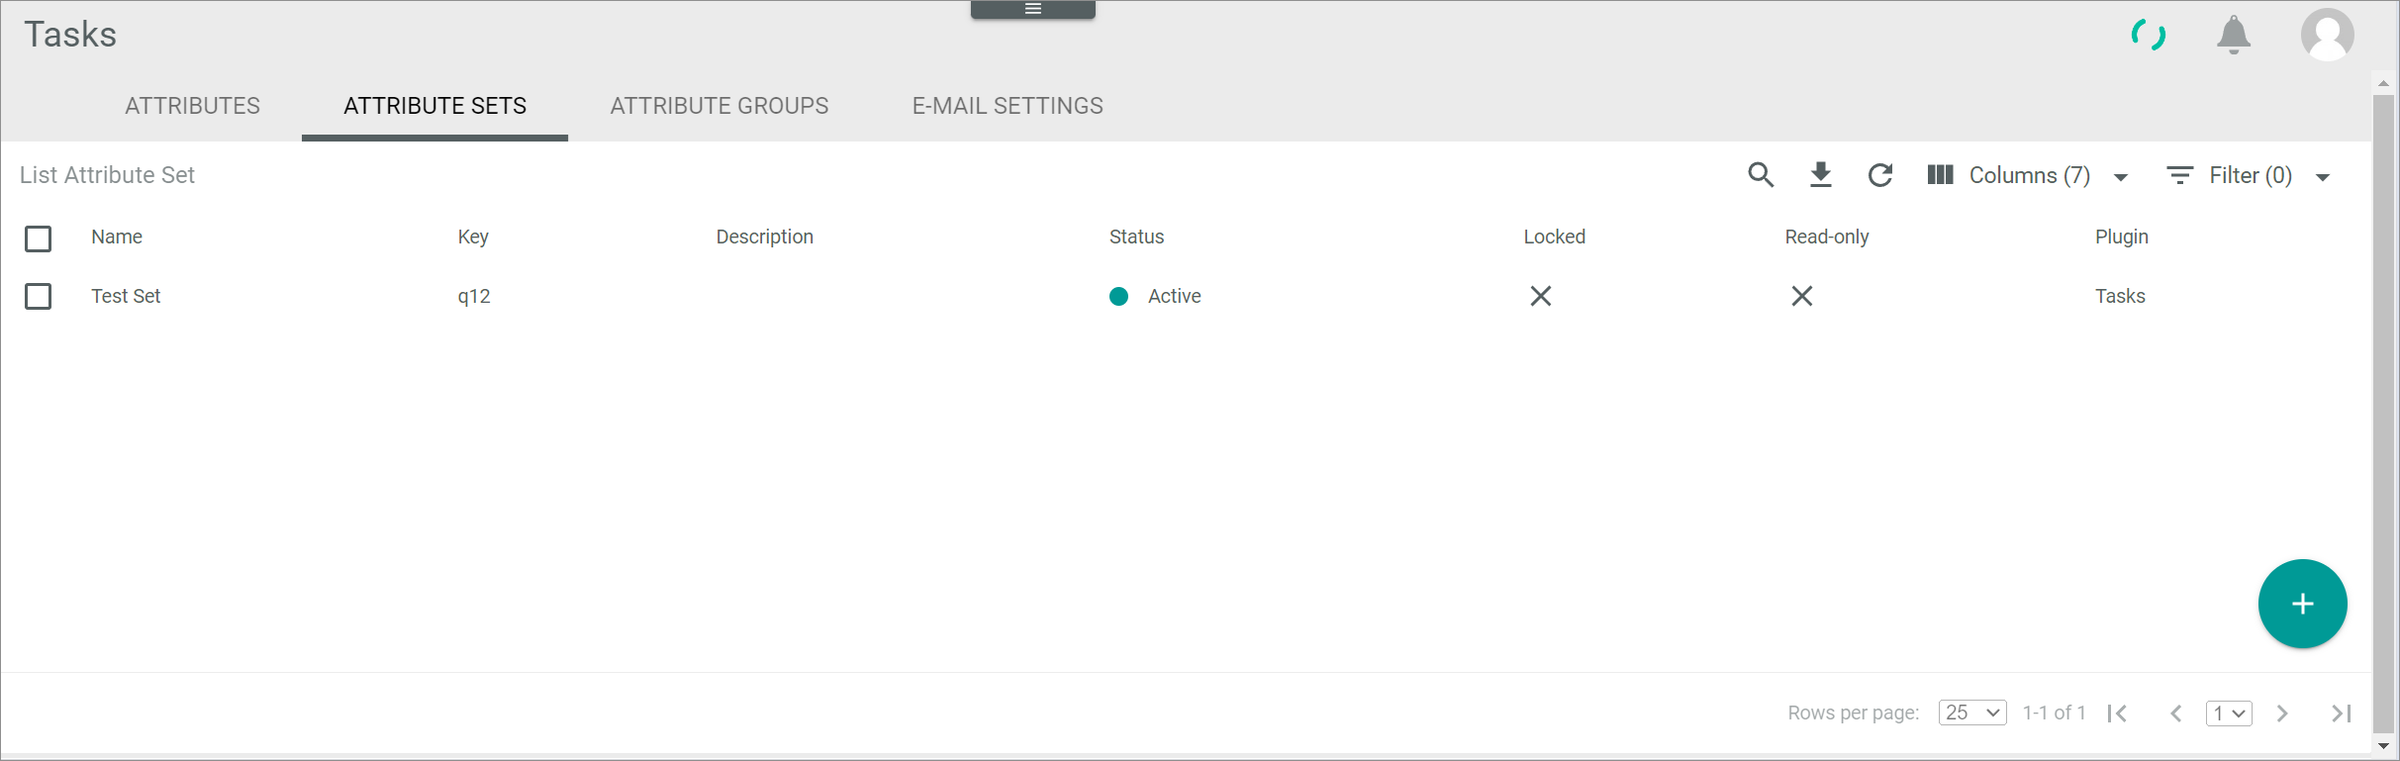
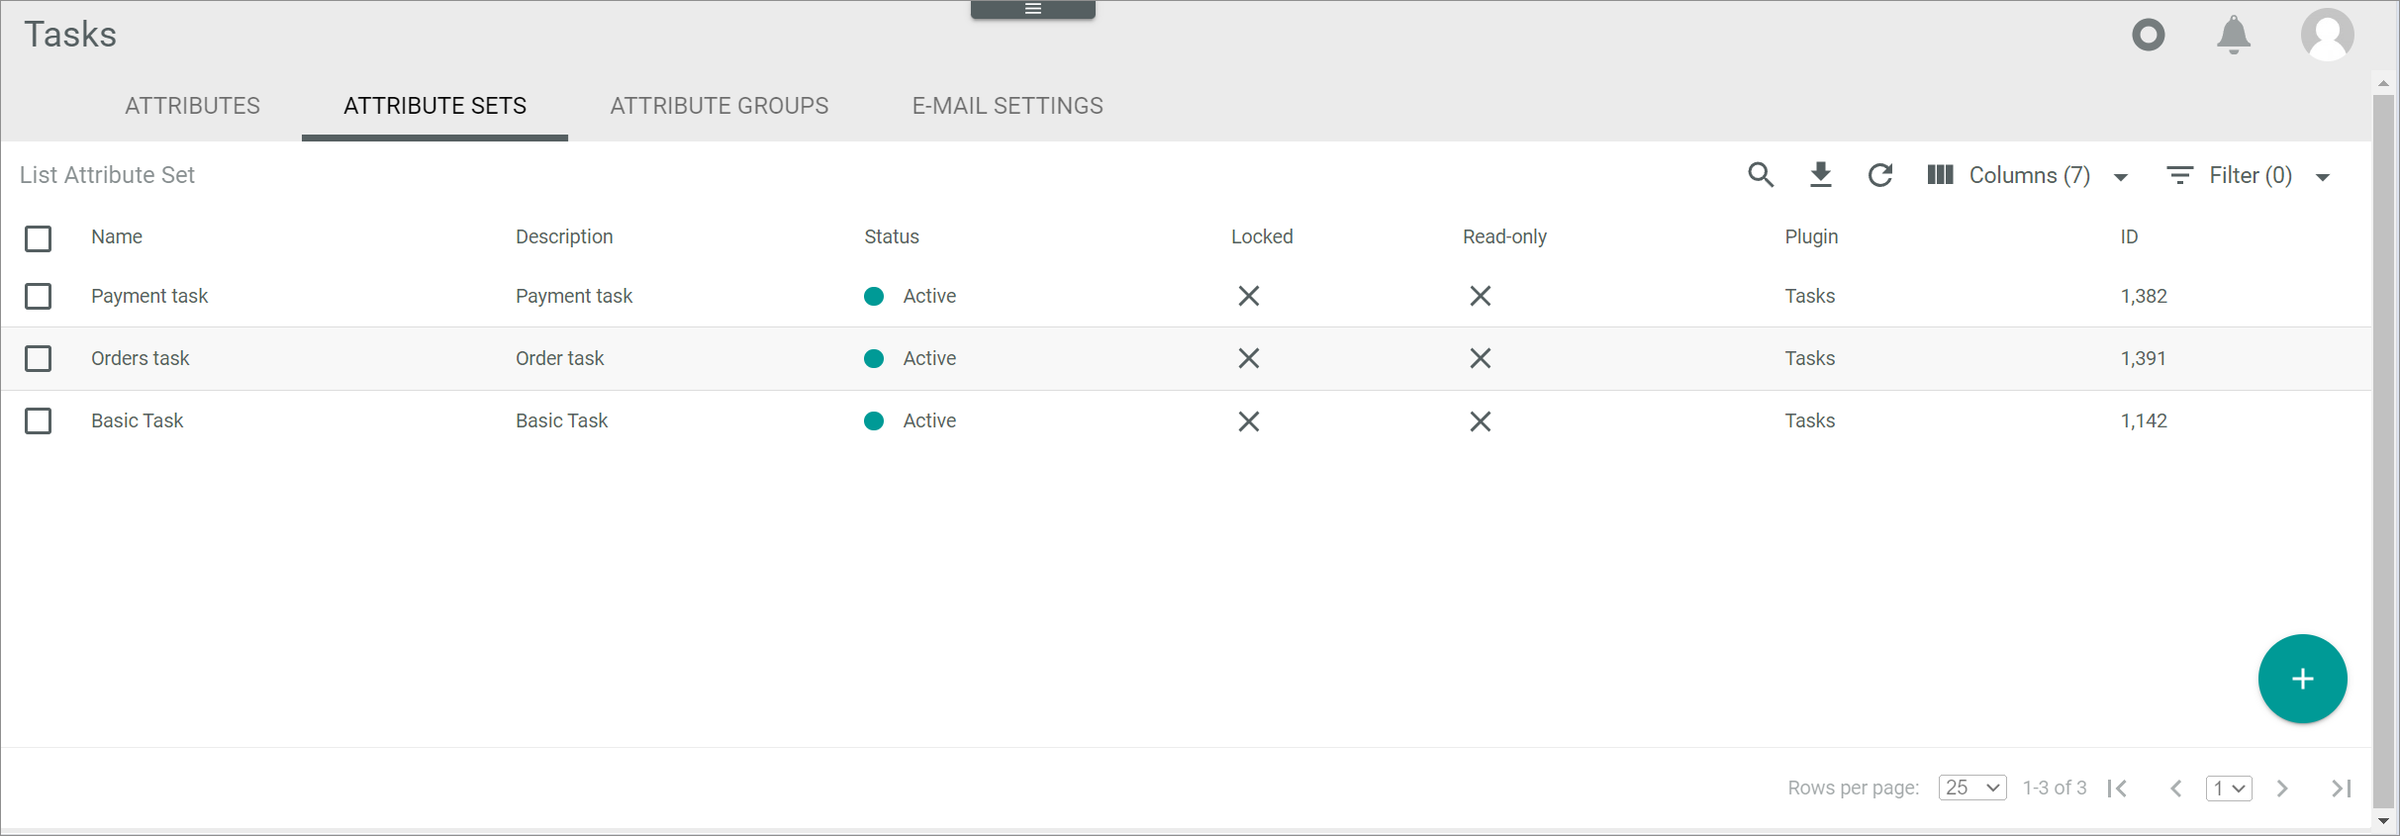
ACD-1101
Docu review corrections

diff --git a/Tasks/Operation/01_ManageEvents.md b/Tasks/Operation/01_ManageEvents.md
@@ -7,7 +7,11 @@ An event is an occurrence that originates a task. For example, when inconsistenc
 
 You can create events manually in the *Tasks* module. However, most events are automatically created by the system when installing a plugin or module, such as the *Actindo Workflow Process Execution Failed*. 
 
-When the *Process Orchestration* (also known as *Workflows*) module is installed, the *Actindo Workflow Process Execution Failed* event is automatically created in the *Tasks* module. This event creates a task as soon as an error occurs in a process action. The workflow process in the *Process Orchestration* module is then paused until the specified task is performed manually by the responsible user. For detailed information about the workflow processes, see the [Process Orchestration](../../ActindoWorkFlow/Overview/01_General.md) documentation. 
+When the *Process Orchestration* module is installed, the *Actindo Workflow Process Execution Failed* event is automatically created in the *Tasks* module. This event creates a task as soon as an error occurs in a process action. The workflow process in the *Process Orchestration* module is then paused until the specified task is performed manually by the responsible user. For detailed information about the workflow processes, see the [Process Orchestration](../../ActindoWorkFlow/Overview/01_General.md) documentation. 
+
+[comment]: <> (Ist es nicht eine Voraussetzung, dass ich einen zuvor in der Workflow Config einen "Task event" in der Transition angebe, damit das passiert?)
+
+[comment]: <> (Link anpassen, wenn veröffentlicht: For detailed information, see Track the workflow process in the Process Orchestration documentation. ActindoWorkFlow/Operation/09_TrackWorkflowProcess.md)
 
 You can create an event manually, edit an existing event, and delete an event that is no longer needed.
 
@@ -15,7 +19,7 @@ You can create an event manually, edit an existing event, and delete an event th
 
 ## Create an event
 
-You can create an event to define a scenario where a task must be created.
+You can create an event to define a scenario that requires a user to perform a task.
 
 #### Prerequisites
 
@@ -43,17 +47,17 @@ No prerequisites to fulfill.
 
 4. Click the *Attribute set for tasks* drop-down list and select the desired option. All available attribute sets for tasks are displayed in the list.
 
-5. As you are creating the event manually, the *Plugin* drop-down list is locked.
+    > [Info] As you are creating the event manually, the *Plugin* drop-down list is locked. After saving the event, the value **Manually created** is displayed in the *Plugin* column.
 
-    > [Info] After saving the event, the value **Manually created** is displayed in the *Plugin* column.
+5. If desired, click the *Responsible user* drop-down list and select the user to whom you want to assign the event, and the related tasks, by default. All users that are registered in the current instance are displayed in the list. 
 
-6. Click the *Responsible user* drop-down list and select the user to whom you want to assign the event, and the related tasks, by default. All users that are registered in the system instance are displayed in the list. 
-
-7. Click the *Responsible user group* drop-down list and select the user group to which you want to assign the event, and the related tasks, by default. All user groups that are registered in the system instance are displayed in the list.
+6. Alternatively, click the *Responsible user group* drop-down list and select the user group to which you want to assign the event, and the related tasks, by default. All user groups that are registered in the current instance are displayed in the list.
 
     > [Info] If necessary, you can further assign an individual task to a specific user in the *Tasks* menu entry, see [Assign a task](./02_ManageTasks.md#assign-a-task).
 
-8. Click the [SAVE] button.  
+[comment]: <> (Muss man oder kann man ein responsible user und responsible user group hier auswählen? Was passiert, wenn die Task keinem User/keiner Gruppe zugewiesen ist? Keine Email-Benachrichtigung geschickt? Oder wohin wird die Email geschickt, wenn eingestellt?)
+
+7. Click the [SAVE] button.  
     A confirmation message is displayed. The event has been saved. The *Create event* view is closed.  
 
 

diff --git a/Tasks/Operation/02_ManageTasks.md b/Tasks/Operation/02_ManageTasks.md
@@ -5,9 +5,11 @@
 
 # Manage the tasks
 
-A task is an activity that needs to be completed by a responsible user. Tasks are defined and configured in the *Process Orchestration* (*Workflows*) module. 
+A task is an activity that needs to be completed by a responsible user. Tasks are defined and configured in the *Process Orchestration* module. 
 
 [comment]: <> (Evtl. Link auf Workflows)
+
+Most tasks are created automatically by modules, such as *Omni-Channel* or *Process Orchestration*, for example, when a process fails. Tasks can also be added during the handling of processes in the *Process Orchestration* module, for instance, for manual clearance of suspicious orders or approving refunds. Tasks are related to an event, which can be assigned by default to a user as well as a user group. Many events are created automatically when installing a module or plugin, but you can also define your own events in the *Tasks* module. For detailed information, see [Manage the events](./01_ManageEvents.md).
 
 The *Tasks* menu entry in the *Tasks* module displays all tasks created in your system. You can assign a task to a specific user, filter tasks by different criteria, mark a task as done, or reopen a closed task.
 
@@ -19,13 +21,13 @@ Every task is related to an event. This means that when an event occurs, a task 
 
 You can define the user and/or user group who, by default, are responsible for an event, and all related tasks, in the *Events* menu entry, see [Manage the events](./01_ManageEvents.md). However, you can further assign an individual or several tasks to a specific user in the *Tasks* menu entry.
 
-You can assign tasks to yourself or to other users registered in your system instance.
+You can assign tasks to yourself or to other users registered in your current instance.
 
 [comment]: <> (instance in Glossar aufnehmen und definieren? Oder anders nennen?)
 
 ### Assign a task to yourself
 
-You can assign one or several tasks at once to yourself.
+You can assign yourself one or more tasks at once.
 
 #### Prerequisites
 
@@ -46,7 +48,7 @@ A task has been created.
 
 ### Assign a task to other user
 
-You can assign one or several tasks at once to other users registered in your system instance.
+You can assign one or several tasks at once to other users registered in your current instance.
 
 #### Prerequisites
 
@@ -62,7 +64,7 @@ A task has been created.
     The editing toolbar is displayed.
 
 2. Click the *Unassigned* drop-down list.  
-    All users registered in the system instance are displayed in the list.
+    All users registered in the current instance are displayed in the list.
 
 3. Select the user to whom you want to assign the task.
     
@@ -120,7 +122,7 @@ A task has been assigned to you, see [Assign a task](#assign-a-task).
     The editing toolbar is displayed.
 
 2. Click the [MARK AS DONE] button.  
-    The selected task is marked as done and therefore closed. The status icon in the *Status* column changes from ![Cross](../../Assets/Icons/Cross05.png "[Cross]") to ![Check](../../Assets/Icons/Check02.png "[Check]"). The date on *Done date* column is updated.
+    The selected task is marked as done and therefore closed. The status icon in the *Status* column changes from ![Cross](../../Assets/Icons/Cross05.png "[Cross]") to ![Check](../../Assets/Icons/Check02.png "[Check]"). The *Done date* column is updated.
 
 
 
@@ -142,4 +144,4 @@ As task has been marked as done, see [Mark a task as done](#mark-a-task-as-done)
     The editing toolbar is displayed.
 
 2. Click the [REOPEN] button.  
-    The selected task is reopened. The status icon in the *Status* column changes from ![Check](../../Assets/Icons/Check02.png "[Check]") to ![Cross](../../Assets/Icons/Cross05.png "[Cross]"). The date on *Done date* column is removed.
+    The selected task is reopened. The status icon in the *Status* column changes from ![Check](../../Assets/Icons/Check02.png "[Check]") to ![Cross](../../Assets/Icons/Cross05.png "[Cross]"). The date in the *Done date* column is removed.

diff --git a/Tasks/UserInterface/01a_List.md b/Tasks/UserInterface/01a_List.md
@@ -10,7 +10,7 @@
 
 **Tasks**
 
-You can filter the tasks displayed by different criteria using the *Assignees*, *Events*, and *Status* drop-down lists. You can also combine the filters to narrow down the listed tasks. Depending on the settings, the displayed columns may vary. All fields are read-only.
+The list displays an overview of all tasks created in the current instance. You can filter the tasks displayed by different criteria using the *Assignees*, *Events*, and *Status* drop-down lists. You can also combine the filters to narrow down the listed tasks. Depending on the settings, the displayed columns may vary. All fields are read-only.
 
 - *Assignees*  
     Click the drop-down list to filter the list of tasks by assignee. The following options are available:  
@@ -40,16 +40,16 @@ You can filter the tasks displayed by different criteria using the *Assignees*, 
 The following functions are available for the editing toolbar: 
 
 - [MARK DONE]  
-    Click this button to mark a task as done. This button is displayed if the checkbox of at least one open task, with status ![Cross](../../Assets/Icons/Cross05.png "[Cross]"), is selected.
+    Click this button to mark a task as done. This button is displayed if the checkbox of at least one open task with an ![Cross](../../Assets/Icons/Cross05.png "[Cross] ") (pending) status is selected.
 
 - [REOPEN]  
-    Click this button to reopen a task. This button is displayed if the checkbox of at least one closed task, with status ![Check](../../Assets/Icons/Check02.png "[Check]"), is selected.
+    Click this button to reopen a task. This button is displayed if the checkbox of at least one closed task with a ![Check](../../Assets/Icons/Check02.png "[Check]") (done) status is selected.
 
 - [ASSIGN TO ME]  
     Click this button to assign a task to yourself. This button is displayed if the checkbox of at least one task is selected.
 
 - *Unassigned*  
-    Click the drop-down list to select a user to assign him/her a task. This button is displayed if the checkbox of at least one task is selected. The list displays all users that are registered in your system instance. 
+    Click the drop-down list to select a user to assign him/her a task. This button is displayed if the checkbox of at least one task is selected. The list displays all users that are registered in your current instance. 
 
     > [Info] You can assign an unassigned task as well as reassign a task that is currently assigned to another user.
 
@@ -91,7 +91,7 @@ The following fields are available in this view:
     User to which the task is assigned.
 
 - *Group*  
-    User group to which the event, and all related tasks, is assigned.
+    User group to which the event and all related tasks are assigned.
 
 - *ID*  
     Task identification number. The ID number is automatically assigned by the system.

diff --git a/Tasks/Integration/01_ManageAttributesTasks.md b/Tasks/Integration/01_ManageAttributesTasks.md
@@ -3,13 +3,23 @@
 
 # Manage an attribute for tasks
 
-A task is an entity type. Like all entity types, a task is defined through a series of attributes. In the *Tasks* module, you can create, edit, deactivate, and delete attributes that are specific to your tasks. 
+A task is an entity type. Like all entity types, a task is defined through a series of attributes. 
 
-The *ATTRIBUTES* tab in the *Tasks* module equals the *ATTRIBUTES* tab contained in the *DataHub* module. In the *Tasks* module, however, only the tasks-relevant attributes are displayed. 
+Tasks contain by default a number of fields, such as *Title*, *Description*, *Event*, and *Assignee*, to specify how the task is called, what it entails, in which scenario it needs to be performed, and who is person responsible for it. These fields are internally predefined.
 
-For detailed information on how to create, edit, deactivate, and delete attributes, see [Manage an attribute](../../DataHub/Integration/01_ManageAttributes.md) in the *DataHub* documentation.
+[comment]: <> (Sebi: Ist das fachlich korrekt? Gerne verbessern bzw. ergänzen.)
 
-[comment]: <> (so allgemein, oder unter dem jeweiligen Procedure?)
+You can create any number of attributes you need to add fields to your tasks and specify further values, such as the ones displayed in the example. 
+
+![Tasks attributes](../../Assets/Screenshots/Tasks/Settings/Attributes/AttributesTasks.png "[Tasks attributes]")
+
+[comment]: <> (Sebi: Sinnvolle Beispiele? Bitte auch Beispiele bei Attribute set und attribute group prüfen bzw. verbessern.)
+
+The *ATTRIBUTES* tab in the *Tasks* module equals the *ATTRIBUTES* tab contained in the *DataHub* module. In the *Tasks* module, however, you can only manage tasks-related attributes, as only the task-relevant attributes are displayed. 
+
+For detailed information on how to manage an attribute, see [Manage an attribute](../../DataHub/Integration/01_ManageAttributes.md) in the *DataHub* documentation.
+
+
 
 
 

diff --git a/Tasks/Integration/02_ManageAttributeSetsTasks.md b/Tasks/Integration/02_ManageAttributeSetsTasks.md
@@ -3,17 +3,14 @@
 
 # Manage an attribute set for tasks
 
-An attribute set consist of multiple attributes to classify certain entity type, in this case, a task. In the *Tasks* module, you can create, edit, and deactivate attribute sets that are specific to your tasks. 
+An attribute set consists of multiple attributes to classify certain entity type, in this case, a task. You may need to define different type of tasks, such as a basic task, a payment task, or an order task, such as the ones displayed in the example. 
 
-The *ATTRIBUTE SETS* tab in the *Tasks* module equals the *ATTRIBUTE SETS* tab contained in the *DataHub* module. In the *Tasks* module, however, only the tasks-relevant attribute sets are displayed. 
+![Tasks attribute sets](../../Assets/Screenshots/Tasks/Settings/AttributeSets/AttributeSetsTasks.png "[Tasks attribute sets]")
 
-For detailed information on how to create, edit, and deactivate attribute sets, see [Manage an attribute](../../DataHub/Integration/02_ManageAttributeSets.md) in the *DataHub* documentation.
+The fields you may want to include in each type of task will probably differ. For example, an order task will include an *Order reference* field, whereas a payment task will contain a *Payment reference* field that does not need to be included in the order task. 
+
+The *ATTRIBUTE SETS* tab in the *Tasks* module equals the *ATTRIBUTE SETS* tab contained in the *DataHub* module. In the *Tasks* module, however, you can only manage the tasks-related attribute sets, as only the task-relevant attribute sets are displayed.
+
+For detailed information on how to manage an attribute set, see [Manage an attribute](../../DataHub/Integration/02_ManageAttributeSets.md) in the *DataHub* documentation.
 
 [comment]: <> (Bitte LOCK-Button aus Editing Toolbar abbauen!)
-
-[comment]: <> (so allgemein, oder unter dem jeweiligen Procedure?)
-
-
-
-
-

diff --git a/Tasks/Integration/03_ManageAttributeGroupsTasks.md b/Tasks/Integration/03_ManageAttributeGroupsTasks.md
@@ -3,15 +3,14 @@
 
 # Manage an attribute group for tasks
 
-The attribute groups serve the logical organization of the entity attributes, in this case the task attributes. In the *Tasks* module, you can create and edit attribute groups that are specific to your tasks. 
+The attribute groups serve the logical organization of the entity attributes, in this case the task attributes. You can create additional groups or subgroups to organize all task-related attributes if necessary, such as the one displayed in the example.
 
-The *ATTRIBUTE GROUPS* tab in the *Tasks* module equals the *ATTRIBUTE GROUPS* tab contained in the *DataHub* module. In the *Tasks* module, however, only the tasks-relevant attribute groups are displayed. 
+![Tasks attribute groups](../../Assets/Screenshots/Tasks/Settings/AttributeGroups/AttributeGroupsTasks.png "[Tasks attribute groups]")
 
-For detailed information on how to create and edit attribute groups, see [Manage an attribute group](../../DataHub/Integration/03_ManageAttributeGroups.md) in the *DataHub* documentation.
+[comment]: <> (Sebi: Was könnte eine typische Attributgruppe für Tasks sein? Was wäre eine praktische "Anwendung" für eine Attributgruppe?)
 
-[comment]: <> (so allgemein, oder unter dem jeweiligen Procedure?)
+The *ATTRIBUTE GROUPS* tab in the *Tasks* module equals the *ATTRIBUTE GROUPS* tab contained in the *DataHub* module. In the *Tasks* module, however, you can only manage the tasks-related attribute groups, as only the task-relevant attribute groups are displayed. 
 
-
-
+For detailed information on how to manage an attribute group, see [Manage an attribute group](../../DataHub/Integration/03_ManageAttributeGroups.md) in the *DataHub* documentation.
 
 

diff --git a/Tasks/Overview/01_General.md b/Tasks/Overview/01_General.md
@@ -1,8 +1,6 @@
 # General information
 
-The *Tasks* module offers an overview of all tasks that need to be performed manually by a user. It integrates seamlessly with the *Process Orchestration* module and allows the automatic creation of tasks when a certain event occurs. Most tasks are created automatically by modules, such as *Omni-Channel* or *Process Orchestration* (*Workflows*), for example, when a process fails. Tasks can also be added during the handling of processes in the *Process Orchestration* (*Workflows*) module, for instance, for manual clearance of suspicious orders or approving refunds.  
-
-Tasks are related to an event, which can be assigned by default to a user as well as a user group. Many events are created automatically when installing a module or plugin, but you can also define your own events in the *Tasks* module.
+The *Tasks* module offers an overview of all tasks that need to be performed manually by a user. It integrates seamlessly with the *Process Orchestration* module and allows the automatic creation of tasks when a certain event occurs. 
 
 All these features combined allow you to further customize your business processes to meet your specific needs, to automate them to reduce errors and optimize resources, and to keep a closer control of them.  
 

diff --git a/Tasks/UserInterface/03a_List.md b/Tasks/UserInterface/03a_List.md
@@ -38,6 +38,8 @@ The following functions and fields are available in this view:
 - *Obsolete/Active*  
     Indication whether the event is **Active** or **Obsolete**.
 
+[comment]: <> (Was bedeutet es, wenn ein Event Obsolete ist? Nicht mehr in Gebrauch? Kann man deaktivieren?)
+
 - *Identifier*  
     Event identifier. The event identifier is similar to a key and therefore must be system-wide unique.
 
@@ -64,7 +66,7 @@ The following functions and fields are available in this view:
     Enter a name for the event.
 
 - *Identifier*  
-    Event identifier. The event identifier is similar to a key and therefore must be system-wide unique.
+    Enter an identifier for the event. The identifier is similar to a key and and therefore must be system-wide unique.
 
 - *Attribute set for tasks*  
     Click the drop-down list and select the appropriate attribute set. All available attribute sets that are relevant for tasks are displayed in the list.

diff --git a/Tasks/Integration/04_ManageEmailSettings.md b/Tasks/Integration/04_ManageEmailSettings.md
@@ -102,7 +102,7 @@ At least one email type has been created in the email connection, see [Create an
 
     ![General settings example](../../Assets/Screenshots/Tasks/Settings/EmailSettings/EmailSettingsGeneralExample.png "[General settings example]")
 
-3. If necessary, click the *Email sending per event* menu entry to configure further settings, see [Configure the email sending per event](#configure-the-email-sending-per-event). Otherwise, go to step 4.
+3. If necessary, click the *Email sending per event* menu entry to configure further settings, see [Configure the email sending per event](#configure-the-email-sending-per-event). Otherwise, continue with step 4.
 
 4. Click the [SAVE] button.  
     A confirmation message is displayed. The email general settings have been saved.

diff --git a/Tasks/UserInterface/02c_AttributeGroups.md b/Tasks/UserInterface/02c_AttributeGroups.md
@@ -5,13 +5,11 @@
 
 *Tasks > Settings > Tab ATTRIBUTE GROUPS*
 
-![Attribute groups](../../Assets/Screenshots/Tasks/Settings/AttributeSets/AttributeSetsTasks.png "[Attribute groups]")
+![Attribute groups](../../Assets/Screenshots/Tasks/Settings/AttributeGroups/AttributeGroupsTasks.png "[Attribute groups]")
 
 The *ATTRIBUTE GROUPS* tab in the *Tasks* module equals the *ATTRIBUTE GROUPS* tab contained in the *DataHub* module. In the *Tasks* module, however, only the tasks-relevant attribute groups are displayed. 
 
 For a detailed description of this view, see [Attribute groups](../../DataHub/UserInterface/01c_AttributeGroups.md) in the *DataHub* documentation.
-
-[comment]: <> (so allgemein, oder unter dem Create an attribute group und Edit an attribute group dazu?)
 
 
 

diff --git a/Tasks/UserInterface/02b_AttributeSets.md b/Tasks/UserInterface/02b_AttributeSets.md
@@ -11,7 +11,6 @@ The *ATTRIBUTE SETS* tab in the *Tasks* module equals the *ATTRIBUTE SETS* tab c
 
 For a detailed description of this view, see [Attribute sets](../../DataHub/UserInterface/01b_AttributeSets.md) in the *DataHub* documentation.
 
-[comment]: <> (so allgemein, oder unter dem Create an attribute set und Edit an attribute set dazu?)
 
 
 

diff --git a/Tasks/UserInterface/02a_Attributes.md b/Tasks/UserInterface/02a_Attributes.md
@@ -11,7 +11,7 @@ The *ATTRIBUTES* tab in the *Tasks* module equals the *ATTRIBUTES* tab contained
 
 For a detailed description of this view, see [Attributes](../../DataHub/UserInterface/01a_Attributes.md) in the *DataHub* documentation.
 
-[comment]: <> (so allgemein, oder unter dem Create an attribute und Edit an attribute dazu?)
+
 
 
 
